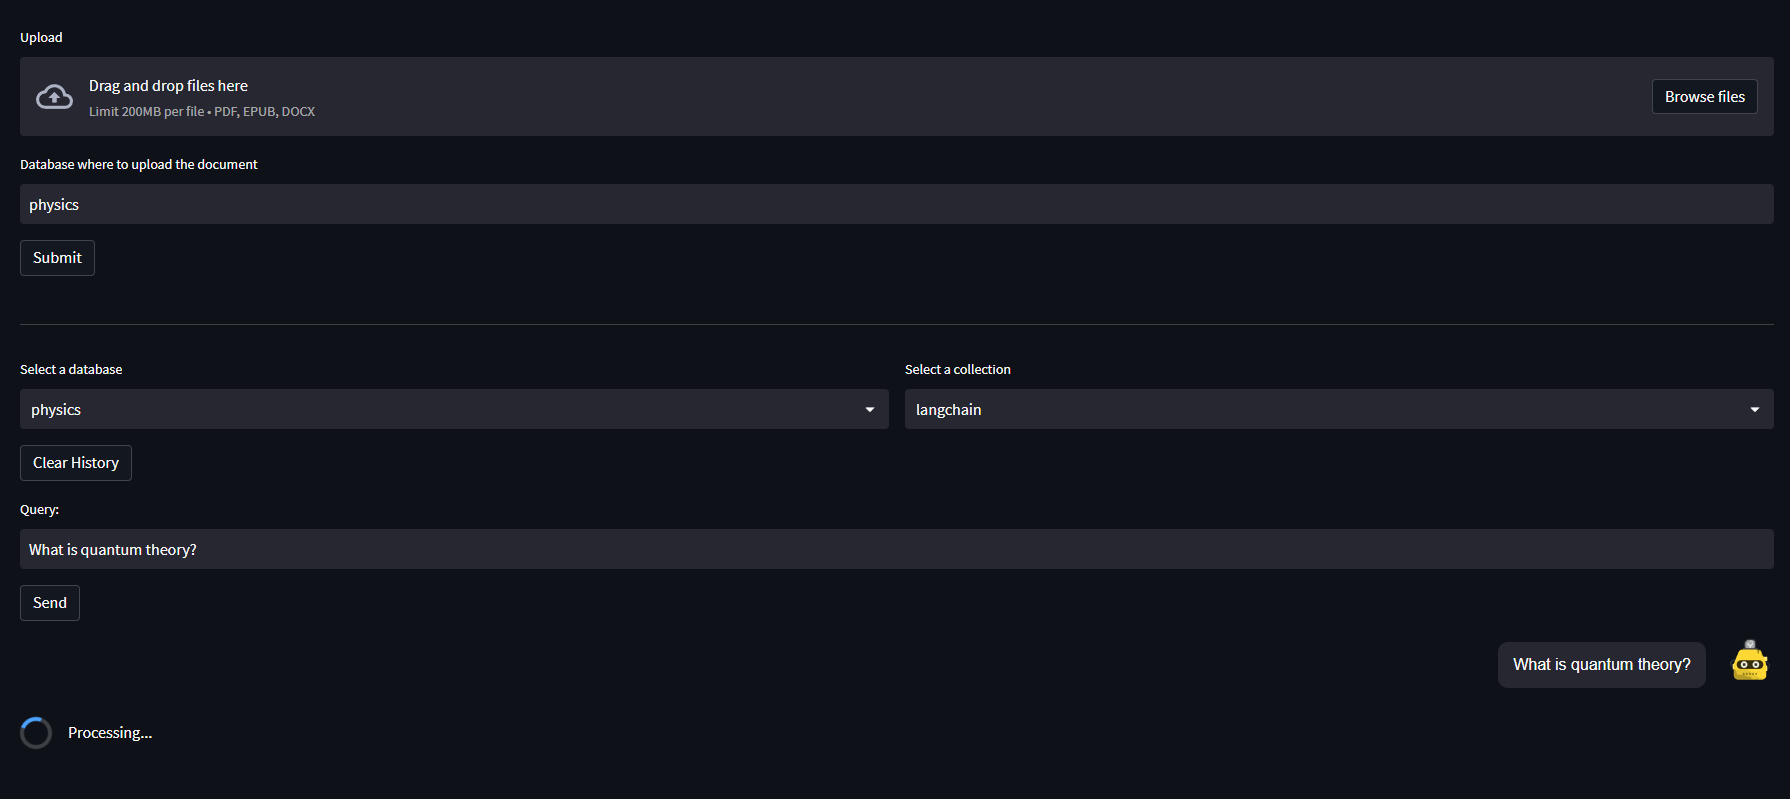
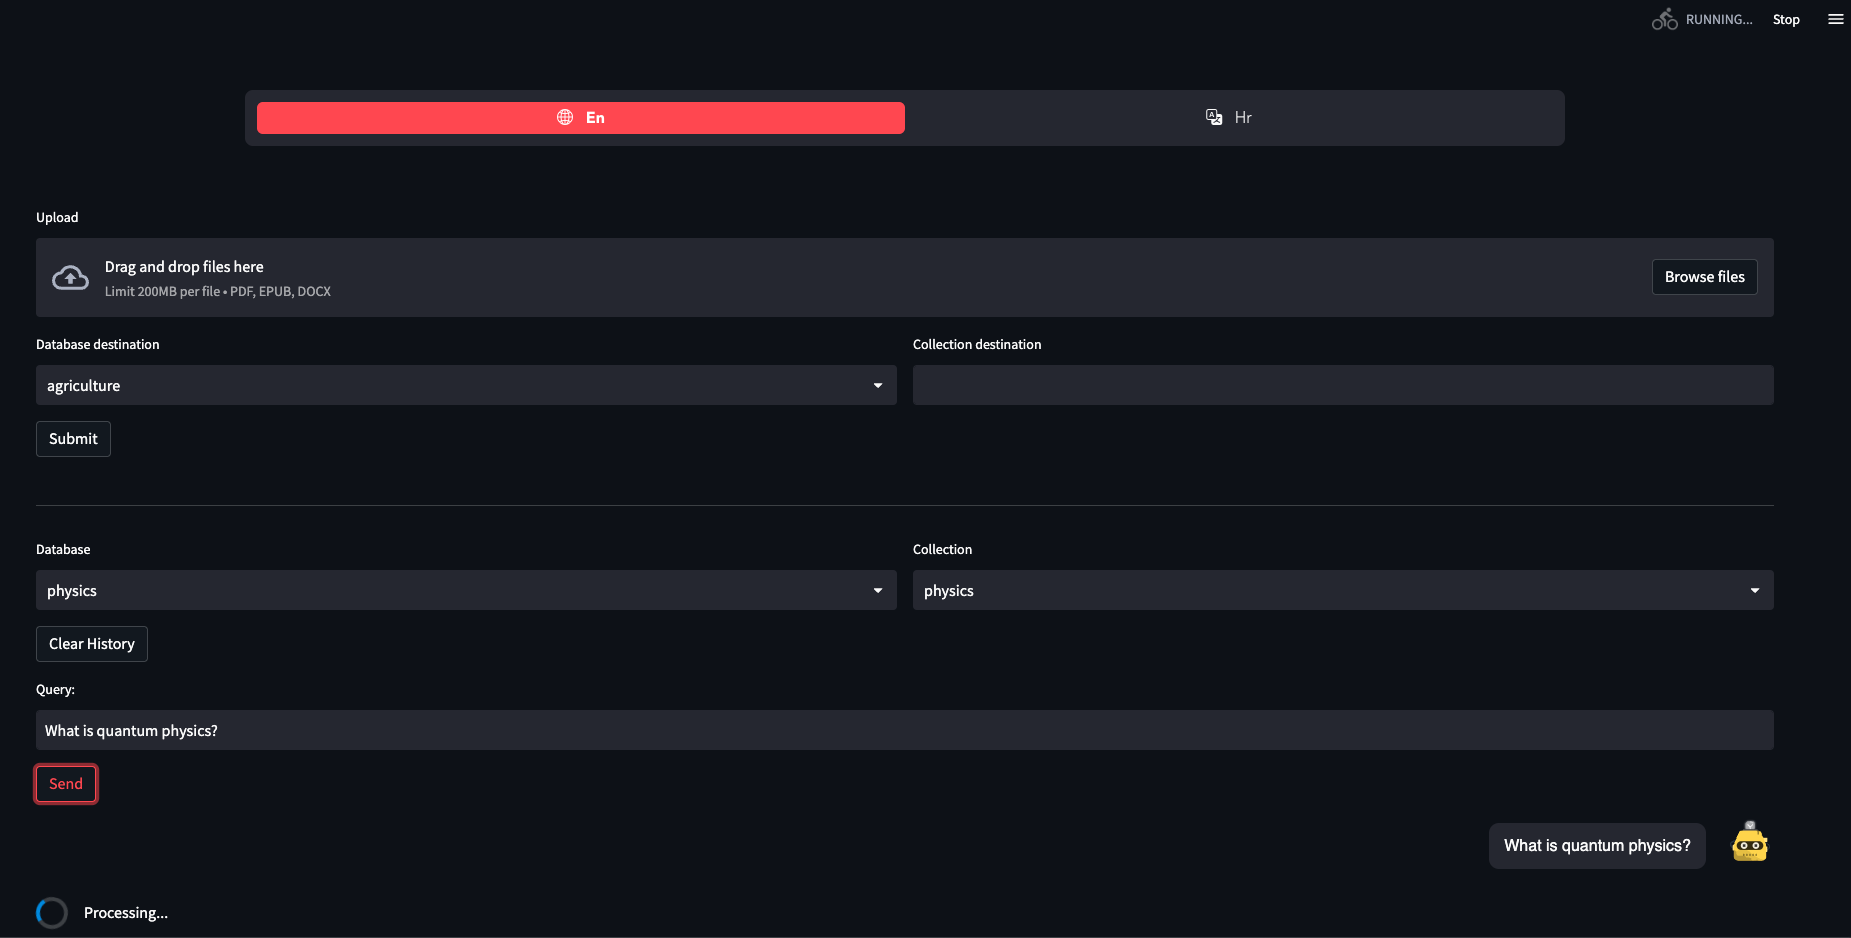
works on the UI (in progress: added option to choose languages, file upload can choose database and collection name), logging now default for INFO

diff --git a/scrapalot_main_web.py b/scrapalot_main_web.py
@@ -4,12 +4,18 @@ from typing import List
 import requests
 import streamlit as st
 from streamlit_chat import message
+from streamlit_option_menu import option_menu
 from urllib3.connection import HTTPConnection
 
 from scripts.app_environment import api_base_url
 
 st.set_page_config(layout="wide")
 
+# --- GENERAL SETTINGS ---
+PAGE_TITLE: str = "AI Talks"
+PAGE_ICON: str = "🤖"
+LANG_EN: str = "En"
+LANG_HR: str = "Hr"
 # Constants
 ACCEPTABLE_FILE_TYPES = ["pdf", "epub", "docx"]
 
@@ -27,6 +33,9 @@ def initialize_state():
     if 'selected_collection' not in st.session_state:
         st.session_state['selected_collection'] = ''
 
+    if 'locale' not in st.session_state:
+        st.session_state['locale'] = 'en'
+
 
 def get_database_names_and_collections():
     endpoint = f"{api_base_url}/databases"
@@ -39,6 +48,9 @@ def get_database_names_and_collections():
         st.error("Failed to get database names.")
         st.write(response.text)
         return {}
+
+
+databases = get_database_names_and_collections()
 
 
 def query_documents(question: str, database_name: str, collection_name: str):
@@ -67,23 +79,26 @@ def handle_file_upload():
         type=ACCEPTABLE_FILE_TYPES
     )
 
-    database_name = st.text_input("Database where to upload the document", value="", label_visibility="visible")
+    database_names = list(databases.keys())
+    col1, col2 = st.columns(2)
+
+    selected_database = col1.selectbox("Database destination", database_names)
+    selected_collection = col2.text_input("Collection destination", value="", label_visibility="visible")
 
     if st.button("Submit"):
-        upload_documents(uploaded_files, database_name)
+        upload_documents(uploaded_files, selected_database, selected_collection)
 
 
 def handle_database_and_collection_selection():
-    result = get_database_names_and_collections()
-    database_names = list(result.keys())
+    database_names = list(databases.keys())
 
     col1, col2 = st.columns(2)
-    st.session_state['selected_database'] = col1.selectbox("Select a database", database_names)
+    st.session_state['selected_database'] = col1.selectbox("Database", database_names)
 
     # Make sure that a database is selected
     if st.session_state['selected_database']:
-        collections = result.get(st.session_state['selected_database'], [])
-        st.session_state['selected_collection'] = col2.selectbox("Select a collection", collections)
+        collections = databases.get(st.session_state['selected_database'], [])
+        st.session_state['selected_collection'] = col2.selectbox("Collection", collections)
 
 
 def handle_user_query():
@@ -135,11 +150,11 @@ def handle_user_query_processing(user_input):
 
 
 # noinspection PyUnresolvedReferences
-def upload_documents(files: List[st.runtime.uploaded_file_manager.UploadedFile], database_name: str):
+def upload_documents(files: List[st.runtime.uploaded_file_manager.UploadedFile], database_name: str, collection_name: str):
     with st.spinner("Processing..."):
         endpoint = f"{api_base_url}/upload"
         files_data = [("files", file) for file in files]
-        data = {"database_name": database_name}
+        data = {"database_name": database_name, "collection_name": collection_name}
 
         response = requests.post(endpoint, files=files_data, data=data)
         if response.status_code == 200:
@@ -151,7 +166,7 @@ def upload_documents(files: List[st.runtime.uploaded_file_manager.UploadedFile],
 
 def set_keepalive_options(http_conn):
     http_conn.default_socket_options = (
-            http_conn.default_socket_options + [
+        http_conn.default_socket_options + [
         (socket.SOL_SOCKET, socket.SO_KEEPALIVE, 1)
     ])
 
@@ -217,4 +232,20 @@ def main():
 
 
 if __name__ == "__main__":
+    selected_lang = option_menu(
+        menu_title=None,
+        options=[LANG_EN, LANG_HR, ],
+        icons=["globe2", "translate"],
+        menu_icon="cast",
+        default_index=0,
+        orientation="horizontal",
+    )
+    match selected_lang:
+        case "En":
+            st.session_state.locale = 'en'
+        case "Hr":
+            st.session_state.locale = 'hr'
+        case _:
+            st.session_state.locale = 'en'
+    st.markdown(f"<h1 style='text-align: center;'>{st.session_state.locale.title}</h1>", unsafe_allow_html=True)
     main()

diff --git a/scrapalot_main.py b/scrapalot_main.py
@@ -1,4 +1,5 @@
 #!/usr/bin/env python3
+import logging
 import os
 from time import monotonic
 
@@ -25,7 +26,7 @@ os.environ["TOKENIZERS_PARALLELISM"] = "true"
 try:
     load_dotenv()
 except Exception as e:
-    print("Error loading .env file, create one from example.env:", str(e))
+    logging.error("Error loading .env file, create one from example.env:", str(e))
 
 
 def get_gpu_memory() -> int:
@@ -56,13 +57,13 @@ def calculate_layer_count() -> None | int | float:
 
 
 def get_llm_instance():
-    print(f"Initializing model...")
+    logging.debug(f"Initializing model...")
 
     callbacks = [] if args.mute_stream else [StreamingStdOutCallbackHandler()]
 
     if model_type == "gpt4all":
         if gpu_is_enabled:
-            print("GPU is enabled, but GPT4All does not support GPU acceleration. Please use LlamaCpp instead.")
+            logging.warn("GPU is enabled, but GPT4All does not support GPU acceleration. Please use LlamaCpp instead.")
             exit(1)
         return GPT4All(
             model=model_path_or_id,
@@ -128,14 +129,14 @@ def get_llm_instance():
         assert openai_api_key is not None, "Set ENV OPENAI_API_KEY, Get one here: https://platform.openai.com/account/api-keys"
         return OpenAI(openai_api_key=openai_api_key, callbacks=callbacks)
     else:
-        print(f"Model {model_type} not supported!")
+        logging.error(f"Model {model_type} not supported!")
         exit()
 
 
 def main():
     llm = get_llm_instance()
     if llm is None:
-        print("Could not initialize LLM instance.")
+        logging.error("Could not initialize LLM instance.")
         return
 
     selected_directory_list = prompt()
@@ -176,7 +177,6 @@ def main():
 
 
 if __name__ == "__main__":
-    if args.log_level is not None:
-        app_logs.initialize_logging()
+    app_logs.initialize_logging()
 
     main()

diff --git a/scrapalot_ingest.py b/scrapalot_ingest.py
@@ -3,7 +3,7 @@ import glob
 import os
 import sys
 from multiprocessing import Pool
-from typing import List
+from typing import List, Optional
 
 from dotenv import set_key
 from langchain.docstore.document import Document
@@ -159,7 +159,7 @@ def prompt_user():
             print("\n\033[91m\033[1m[!] \033[0mInvalid choice. Please try again.\033[91m\033[1m[!] \033[0m\n")
 
 
-def main(source_dir: str, persist_dir: str, db_collection_name: str):
+def main(source_dir: str, persist_dir: str, db_collection_name: str, sub_collection_name: Optional[str] = None):
     # Create embeddings
     embeddings_kwargs = {'device': 'cuda'} if gpu_is_enabled else {}
     embeddings = HuggingFaceEmbeddings(
@@ -216,11 +216,12 @@ if __name__ == "__main__":
                 os.makedirs(persist_directory)
 
             if args.collection:
-                collection_name = args.collection
-                main(source_directory, persist_directory, collection_name)
+                sub_collection_name = args.collection
+                db_collection_name = args.ingest_dbname
+                main(source_directory, persist_directory, db_collection_name, sub_collection_name)
             else:
-                collection_name = args.ingest_dbname
-                main(source_directory, persist_directory, collection_name)
+                db_collection_name = args.ingest_dbname
+                main(source_directory, persist_directory, db_collection_name)
         else:
             source_directory, persist_directory = prompt_user()
             db_name = os.path.basename(persist_directory)

diff --git a/scripts/app_qa_builder.py b/scripts/app_qa_builder.py
@@ -58,11 +58,11 @@ def process_database_question(database_name, llm, collection_name: Optional[str]
 
     retriever = db.as_retriever(search_kwargs={"k": ingest_target_source_chunks if ingest_target_source_chunks else args.ingest_target_source_chunks})
 
-    template = """You are a an AI assistant providing helpful advice. You are given the following extracted parts of a long document and a question. 
-    Provide a conversational answer based on the context provided. If you can't find the answer in the context below, just say 
-    "Hmm, I'm not sure." Don't try to make up an answer. If the question is not related to the context, politely respond 
+    template = """You are a an AI assistant providing helpful advice. You are given the following extracted parts of a long document and a question.
+    Provide a conversational answer based on the context provided. If you can't find the answer in the context below, just say
+    "Hmm, I'm not sure." Don't try to make up an answer. If the question is not related to the context, politely respond
     that you are tuned to only answer questions that are related to the context.
-    
+
     Question: {question}
     =========
     {context}

diff --git a/scripts/app_utils.py b/scripts/app_utils.py
@@ -1,3 +1,4 @@
+import logging
 import math
 import os
 import platform
@@ -29,8 +30,8 @@ def print_platform_version():
     (it can be more specific like 'linux2' or 'linux3', depending on the Linux version you're running).
     The platform.machine() returns the machine type, like 'x86_64' or 'amd64' for an Intel x64 machine, and 'arm64' for an ARM64 machine.
     """
-    print("sys_platform:", sys.platform)
-    print("platform_machine:", platform.machine())
+    logging.debug("sys_platform:", sys.platform)
+    logging.debug("platform_machine:", platform.machine())
 
 
 ######################################################################

diff --git a/scripts/app_logs.py b/scripts/app_logs.py
@@ -14,4 +14,4 @@ def initialize_logging():
     file_handler = logging.FileHandler(filename=log_file)
     stdout_handler = logging.StreamHandler(sys.stdout)
     handlers = [file_handler, stdout_handler]
-    logging.basicConfig(format='%(asctime)s %(levelname)-8s %(message)s', handlers=handlers, level=args.log_level, force=True)
+    logging.basicConfig(format='%(asctime)s %(levelname)-8s %(message)s', handlers=handlers, level=args.log_level if args.log_level else "INFO", force=True)

diff --git a/scrapalot_main_api_run.py b/scrapalot_main_api_run.py
@@ -81,9 +81,9 @@ def run_ingest(database_name: str, collection_name: Optional[str] = None):
 
 @app.post("/upload")
 async def upload_documents(
-        database_name: str = Form(...),
-        files: List[UploadFile] = File(...),
-        collection_name: Optional[str] = None):
+    database_name: str = Form(...),
+    files: List[UploadFile] = File(...),
+    collection_name: Optional[str] = None):
     saved_files = []
     source_documents = './source_documents'
     try:
